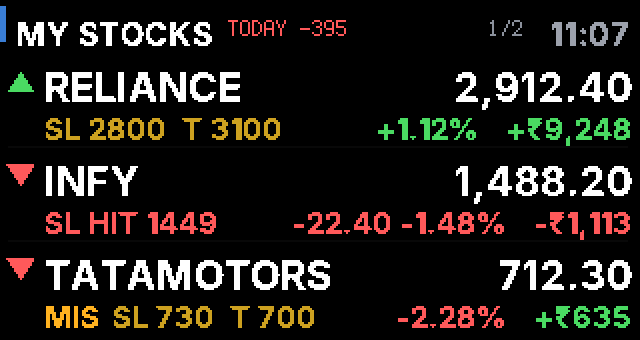
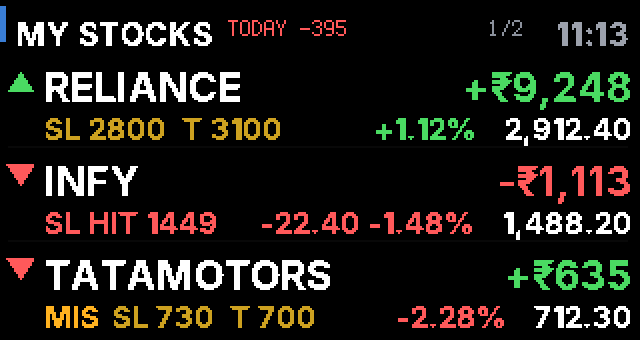
My stocks: P&L on the first line, LTP on the second
Line 1 is the symbol and total P&L in large coloured type; line 2 the
stop-loss and target, today's change and the LTP.

Claude-Session: https://claude.ai/code/session_01Sfdt7SSnBsuuKXSBpK9YVa

diff --git a/t-display-dashboard/code.py b/t-display-dashboard/code.py
@@ -2934,8 +2934,8 @@ class StocksScreen(Screen):
                 root.append(sep)
             self.rows.append(shapes + [
                 text(self.F1, "", 22, y - 3, WHITE),                    # symbol
-                text(self.F1, "", 316, y - 3, WHITE, right=True),       # LTP
-                text(self.F2, "", 316, y + 22, WHITE, right=True),      # P&L
+                text(self.F1, "", 316, y - 3, WHITE, right=True),       # P&L
+                text(self.F2, "", 316, y + 22, WHITE, right=True),      # LTP
                 text(self.F2, "", 22, y + 22, 0xC9A227),                # stop-loss / target
                 text(self.F2, "", 240, y + 22, WHITE, right=True),      # today's change
                 text(F_SMALL, "", 0, 0, WHITE),                         # (not used)
@@ -3026,9 +3026,9 @@ class StocksScreen(Screen):
             dn.hidden = not chg < 0
             flat.hidden = chg != 0
             sep.hidden = False
-            # line 1: symbol ........ LTP        line 2: stop-loss / target .... today's change   P&L
+            # line 1: symbol ........ P&L        line 2: stop-loss / target .... today's change   LTP
             F1, F2 = self.F1, self.F2
-            _set(ltp_l, price(ltp))
+            _set(ltp_l, inr(pnl, signed=True), p_col)       # (the big label on line 1)
             room = 316 - px_width(F1, ltp_l.text) - 34
             name = _screen_text(sym)
             if px_width(F1, name) > room:
@@ -3047,7 +3047,7 @@ class StocksScreen(Screen):
                                                     ("T " + _lvl(al[1])) if al[1] else "") if x), 0xC9A227
             else:
                 held, h_col = "", 0x8A9099
-            pnl_t = inr(pnl, signed=True)
+            pnl_t = price(ltp)                              # (the right-hand label on line 2)
             pct_t = "%+.2f%%" % (chg / close * 100 if close else 0.0)
             day_t = price(chg, True) + " " + pct_t
             day_x = 316 - px_width(F2, pnl_t) - 14
@@ -3056,7 +3056,7 @@ class StocksScreen(Screen):
                 day_t = pct_t
             if hx + px_width(F2, held) + 10 + px_width(F2, day_t) > day_x:
                 held = held.replace("SL ", "SL").replace("T ", "T").replace("  ", " ")
-            _set(pnl_l, pnl_t, p_col)
+            _set(pnl_l, pnl_t, WHITE)
             if chg_l.anchored_position[0] != day_x:
                 chg_l.anchored_position = (day_x, chg_l.anchored_position[1])
             _set(chg_l, day_t, c_col)

diff --git a/t-display-dashboard/README.md b/t-display-dashboard/README.md
@@ -73,7 +73,7 @@ The original grey look:
 
 - **To-do:** open `http://<board-ip>:8080/todo` to add tasks (with an optional due date and high priority), tick them off, edit, reorder, sort by priority and due date, and clear done ones. The board shows five at a time and pages through the rest every 6 seconds (BOOT for the next page). Due dates read "Today", "Tomorrow", a weekday, a date, or "3d late" in red. The list is kept on the board (NVM). Phone shortcuts can add tasks with `/todo/add?t=Buy+milk` (optional `&p=1` for high priority, `&d=2026-11-20` for a due date), and `/todo.json` returns the list. The screen font is English letters only, so other scripts show as "?" on the board (they're kept on the web page).
 - **Ask AI:** put `GEMINI_API_KEY = "..."` in `settings.toml` (a key from Google AI Studio; it is only read from that file and never shown on the web pages), copy `google_roots.pem` next to `code.py` (CircuitPython's built-in certificate list doesn't cover Google's API servers; without the file the page reports `MBEDTLS_ERR_X509_FATAL_ERROR`), restart, then open `/ask` ("Ask AI" on the home page), type a question and press Ask. The board asks Gemini for a plain-text answer of at most 420 characters, jumps to the Ask AI screen and shows it in the largest of four type sizes that fits. The answer stays there, also after a restart, until you ask something else or press clear. The first question puts the screen in the rotation (after Weather); with no answer yet it is skipped. `GEMINI_MODEL` picks the model (default `gemini-flash-latest`). If Google refuses, the page shows its message and the board keeps the previous answer.
-- **My stocks:** open `http://<board-ip>:8080/stocks` (or "My stocks" on the home page) and tap **+ Add** next to the holdings or open positions you want; ▲ ▼ reorder them, ✕ removes one, and there's Add all, Sort A-Z, Remove closed and Remove all. Positions are the ones on Kite's Positions page: intraday (MIS), F&O (NRML) and delivery shares bought today (CNC, which move to holdings the next day). On the board they carry the product in amber under the symbol, and an option or future whose full name doesn't fit drops its expiry (`NIFTY 24000 CE`). A position's P&L is worked out like Kite's (sell value − buy value + quantity × LTP), and a short shows a negative quantity. A picked position that has been closed is hidden on the board and marked "position closed" on the page. Each stock takes two lines in large type: the symbol and its LTP on the first; on the second its stop-loss and target (if set), today's change (per share and in %, or just the % when the line is full) and your total P&L in ₹. Open positions also carry their product (MIS, NRML, CNC) in amber. A green ▲ means the stock is up today, a red ▼ down, a grey bar unchanged; the header adds up today's ₹ move across your picks. Three stocks fit on a page; with more, the board flips pages every 6 seconds (BOOT for the next page) and stays on the screen long enough to show them all. Prices refresh every `KITE_EVERY` seconds (5) while this screen is up in market hours. Picking your first stock turns the screen on (after Portfolio) if it was off. The picks are kept on the board (up to 30), survive restarts and the Settings reset, and can also be set as `STOCK_PICKS` in `settings.toml` (positions as `SYMBOL:PRODUCT`). Skipped in the rotation until you log in to Kite.
+- **My stocks:** open `http://<board-ip>:8080/stocks` (or "My stocks" on the home page) and tap **+ Add** next to the holdings or open positions you want; ▲ ▼ reorder them, ✕ removes one, and there's Add all, Sort A-Z, Remove closed and Remove all. Positions are the ones on Kite's Positions page: intraday (MIS), F&O (NRML) and delivery shares bought today (CNC, which move to holdings the next day). On the board they carry the product in amber under the symbol, and an option or future whose full name doesn't fit drops its expiry (`NIFTY 24000 CE`). A position's P&L is worked out like Kite's (sell value − buy value + quantity × LTP), and a short shows a negative quantity. A picked position that has been closed is hidden on the board and marked "position closed" on the page. Each stock takes two lines in large type: the symbol and your total P&L in ₹ on the first; on the second its stop-loss and target (if set), today's change (per share and in %, or just the % when the line is full) and the LTP. Open positions also carry their product (MIS, NRML, CNC) in amber. A green ▲ means the stock is up today, a red ▼ down, a grey bar unchanged; the header adds up today's ₹ move across your picks. Three stocks fit on a page; with more, the board flips pages every 6 seconds (BOOT for the next page) and stays on the screen long enough to show them all. Prices refresh every `KITE_EVERY` seconds (5) while this screen is up in market hours. Picking your first stock turns the screen on (after Portfolio) if it was off. The picks are kept on the board (up to 30), survive restarts and the Settings reset, and can also be set as `STOCK_PICKS` in `settings.toml` (positions as `SYMBOL:PRODUCT`). Skipped in the rotation until you log in to Kite.
 - **Stop-loss and target alerts (My stocks):** on `/stocks` every picked stock has Stop-loss and Target boxes; fill in either or both and press Set (empty both to remove). Type your [ntfy](https://ntfy.sh) topic in the Alerts box at the top once and press "Send a test" (install the ntfy app on your phone and subscribe to the same topic). When the price reaches a level, the board sends one notification ("RELIANCE: stop-loss hit", with the price, today's move and your P&L) and the row shows `SL HIT` in red or `TGT HIT` in green until you set the alert again. Before that, the row's second line shows the levels in amber (`SL 2800  T 3100`). For a short position the stop-loss sits above the price and the target below. A level that would trigger straight away is refused. Prices are checked whenever they refresh: every `KITE_EVERY` seconds (5) while My stocks is on screen in market hours, otherwise about once a minute; nothing is checked while you're logged out of Kite or the board is off. If a notification can't be sent the alert stays armed and is retried a minute later. Alerts and the topic are kept on the board (also over restarts and the Settings reset); `NTFY_TOPIC` and `NTFY_SERVER` can also go in `settings.toml`. Anyone who knows an ntfy topic name can read it, so keep it unguessable.
 - **Holdings heatmap:** a squarified treemap of your Kite holdings (up to 16 tiles; the rest fold into "+N MORE"). Skipped in the rotation until you log in.
 - **Cricket:** scores come from Cricbuzz's match data (free, no key), the same data its match page shows: score and overs per innings, both batters with runs and balls (the striker has a *), and on the ticker the match status, run rates, the bowler's figures, recent balls and the last wicket. It's not an official API, so it can change; `/cricket/debug` shows what the board last got. Open `/cricket` ("Cricket matches" on the home page) and tap **+ Follow** on each match you want; ✕ stops one, **show** jumps the board to it. With more than one, the cricket screen shows each for `CRICKET_MATCH_SECONDS` (8) with "2/3" in the corner, BOOT skips to the next, and it stays up long enough to show them all. The followed matches survive restarts; one that has left the live feed (finished) for 30 minutes is dropped. `CRICKET_TEAM` takes several teams (`India, Mumbai Indians`) and follows their new matches automatically, but not one you stopped following. One feed read refreshes every match; overs and batters are fetched for the match on screen.
